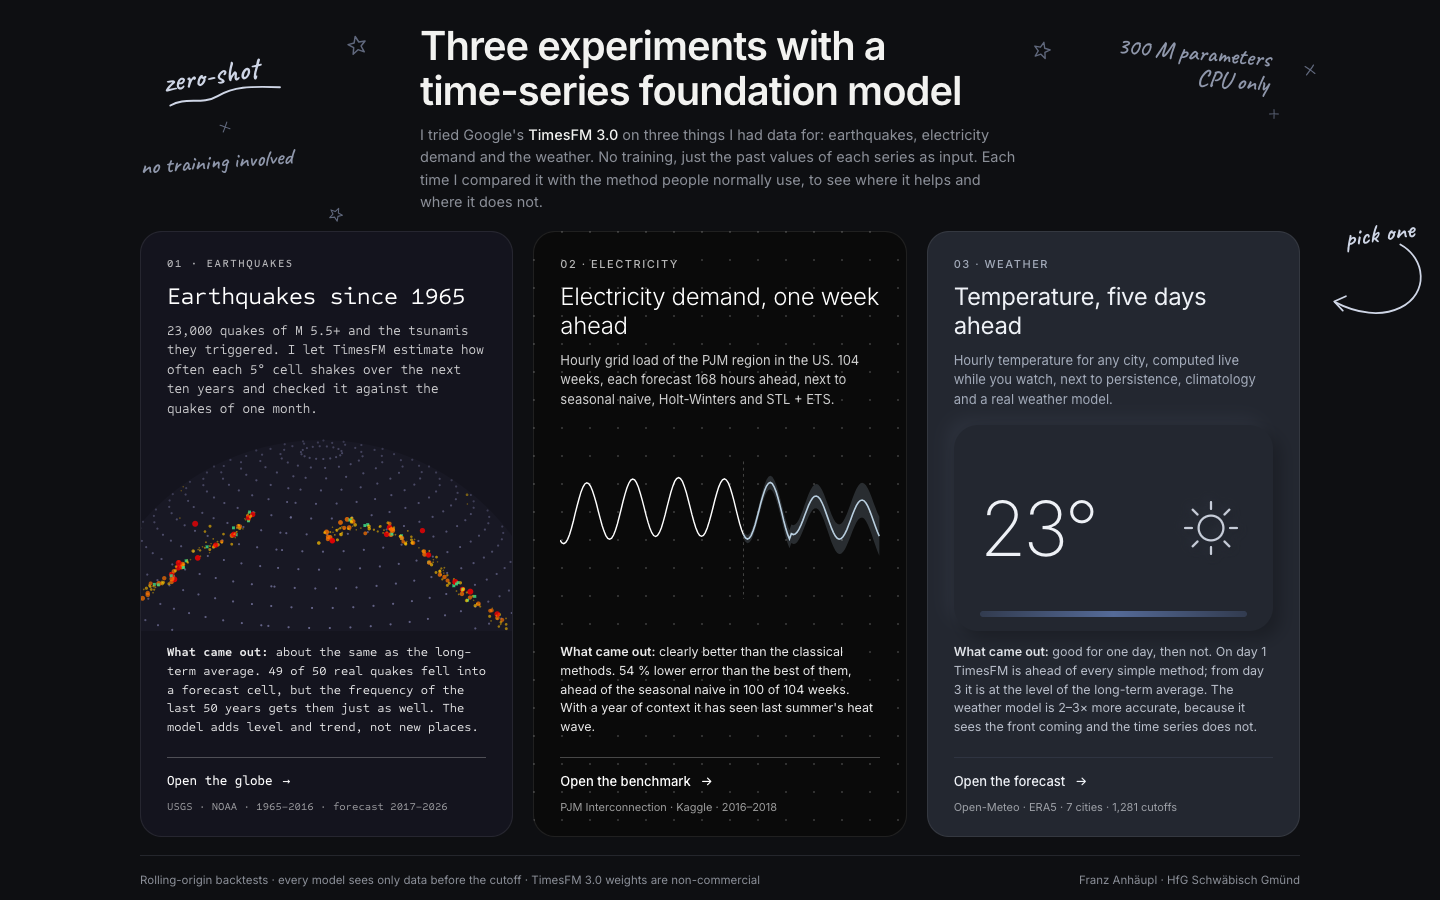
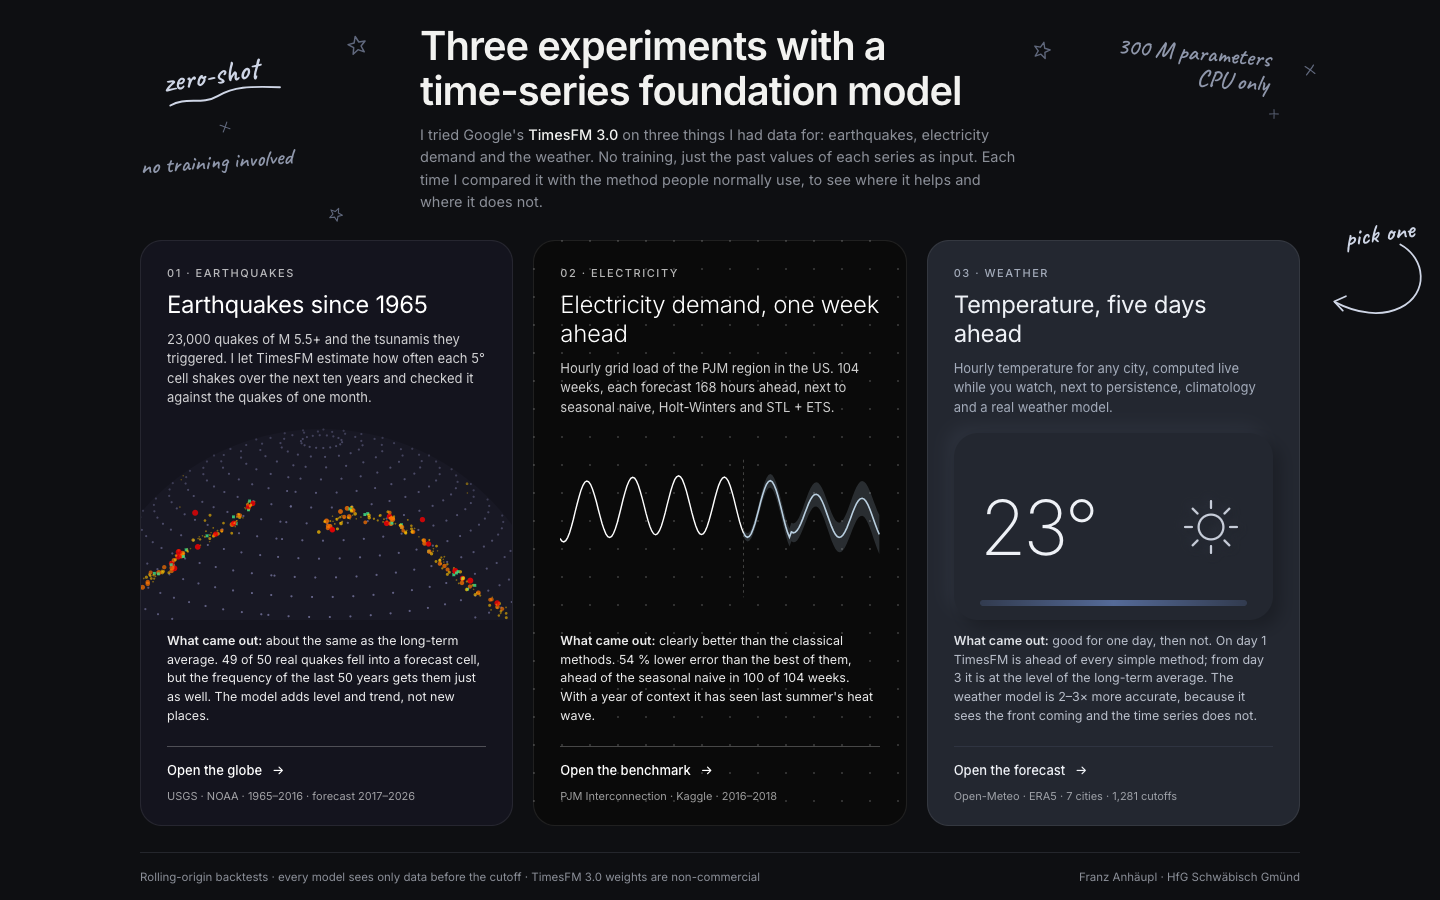
globe: layers panel on the left (predicted, history, auto-rotate, reset view, legend), predictions on the right; hub cards in one typeface

diff --git a/src/erdbeben/pages/Globe.tsx b/src/erdbeben/pages/Globe.tsx
@@ -305,9 +305,13 @@ export default function Globe() {
   const histMaterialsRef = useRef<THREE.PointsMaterial[]>([]);
   const markersRef = useRef<{ real: THREE.Mesh; pred: THREE.Mesh; arc: THREE.Line } | null>(null);
   const focusTargetRef = useRef<THREE.Vector3 | null>(null);
+  const controlsRef = useRef<OrbitControls | null>(null);
+  const cameraRef = useRef<THREE.PerspectiveCamera | null>(null);
   const [showForecast, setShowForecast] = useState(true);
   const [histOpacity, setHistOpacity] = useState(1);
   const [panelOpen, setPanelOpen] = useState(true);
+  const [leftOpen, setLeftOpen] = useState(() => window.innerWidth > 900); // collapsed on phones
+  const [autoRotate, setAutoRotate] = useState(false);
   const [openSection, setOpenSection] = useState<string>('pairs');
   const [selected, setSelected] = useState<string | null>(null);
   const [hover, setHover] = useState<{ item: HoverItem; x: number; y: number } | null>(null);
@@ -336,6 +340,9 @@ export default function Globe() {
     controls.enableZoom = true;
     controls.minDistance = RADIUS + 0.5;
     controls.maxDistance = 40;
+    controls.autoRotateSpeed = 0.6;
+    controlsRef.current = controls;
+    cameraRef.current = camera;
 
     // ---- space around the globe: a sparse, slowly drifting star field.
     const space = new THREE.Group();
@@ -559,6 +566,8 @@ export default function Globe() {
       renderer.domElement.removeEventListener('pointermove', onMove);
       renderer.domElement.removeEventListener('pointerleave', onLeave);
       controls.dispose();
+      controlsRef.current = null;
+      cameraRef.current = null;
       scene.traverse((o) => {
         if (o instanceof THREE.Points) {
           o.geometry.dispose();
@@ -633,6 +642,21 @@ export default function Globe() {
     }
   };
 
+  useEffect(() => {
+    if (controlsRef.current) controlsRef.current.autoRotate = autoRotate;
+  }, [autoRotate]);
+
+  const resetView = () => {
+    const c = controlsRef.current;
+    const cam = cameraRef.current;
+    if (!c || !cam) return;
+    focusTargetRef.current = null;
+    cam.position.set(0, 0, CAMERA_Z);
+    c.target.set(0, 0, 0);
+    c.update();
+    clearSelection();
+  };
+
   // Step through the open list with the arrow keys.
   const currentSection = insights?.sections.find((sec) => sec.key === openSection) ?? null;
   const step = (delta: number) => {
@@ -674,18 +698,17 @@ export default function Globe() {
       {!data && <Loader />}
       <div ref={mountRef} className="stage" />
 
-      {data?.forecast && insights && (panelOpen ? (
-        <aside className="globePanel">
+      {data?.forecast && insights && (leftOpen ? (
+        <aside className="globePanel left">
           <div className="panelHead">
             <div>
-              <div className="panelTitle">Predictions</div>
-              <div className="panelSub">TimesFM 3.0 · {data.forecast.meta.years[0]}–{insights.lastYear}</div>
+              <div className="panelTitle">Layers</div>
+              <div className="panelSub">what the globe shows</div>
             </div>
-            <button type="button" className="iconBtn" onClick={() => setPanelOpen(false)} aria-label="Hide panel" title="Hide panel">
+            <button type="button" className="iconBtn" onClick={() => setLeftOpen(false)} aria-label="Hide layers" title="Hide layers">
               ×
             </button>
           </div>
-
           <div className="controls">
             <label className="ctrl">
               <span className="ctrlLabel">Predicted quakes</span>
@@ -709,12 +732,45 @@ export default function Globe() {
                 <span className="ctrlValue">{Math.round(histOpacity * 100)} %</span>
               </span>
             </label>
+            <label className="ctrl">
+              <span className="ctrlLabel">Auto‑rotate</span>
+              <span className="switch small">
+                <input type="checkbox" checked={autoRotate} onChange={(e) => setAutoRotate(e.target.checked)} aria-label="Auto-rotate the globe" />
+                <span className="knob" />
+              </span>
+            </label>
+            <div className="ctrl">
+              <span className="ctrlLabel">View</span>
+              <button type="button" className="ghostBtn" onClick={resetView}>
+                reset
+              </button>
+            </div>
             <div className="legendRow">
               <span className="legendLabel">M 5.5</span>
               <span className="gradientBar" />
               <span className="legendLabel">M 8+</span>
             </div>
           </div>
+          <div className="note">Orange to red: historical quakes by magnitude. Green: sampled predictions, brighter for stronger.</div>
+        </aside>
+      ) : (
+        <button type="button" className="globePanelToggle leftToggle ghostBtn" onClick={() => setLeftOpen(true)}>
+          Layers ›
+        </button>
+      ))}
+
+      {data?.forecast && insights && (panelOpen ? (
+        <aside className="globePanel">
+          <div className="panelHead">
+            <div>
+              <div className="panelTitle">Predictions</div>
+              <div className="panelSub">TimesFM 3.0 · {data.forecast.meta.years[0]}–{insights.lastYear}</div>
+            </div>
+            <button type="button" className="iconBtn" onClick={() => setPanelOpen(false)} aria-label="Hide panel" title="Hide panel">
+              ×
+            </button>
+          </div>
+
 
           <div className="tabs" role="tablist" aria-label="Prediction lists">
             {insights.sections.map((sec) => (

diff --git a/src/erdbeben/styles/global.css b/src/erdbeben/styles/global.css
@@ -1908,3 +1908,42 @@ select {
   background: rgba(61, 220, 132, 0.25);
   color: #d9ffe9;
 }
+
+/* ==================== left panel: layers / view ==================== */
+.globePanel.left {
+  left: 12px;
+  right: auto;
+  top: 78px;
+  bottom: auto;
+  width: 272px;
+  max-height: calc(100vh - 96px);
+  overflow-y: auto;
+  animation: none;
+}
+
+.globePanelToggle.leftToggle {
+  left: 12px;
+  right: auto;
+  top: 78px;
+}
+
+.globePanel .ctrl .ghostBtn {
+  padding: 3px 10px;
+}
+
+.globePanel.left input[type='range'] {
+  width: 100px;
+}
+
+@media (max-width: 900px) {
+  .globePanel.left {
+    top: 70px;
+    width: 220px;
+    max-height: 38vh;
+  }
+
+  .globePanelToggle.leftToggle {
+    top: 70px;
+    bottom: auto;
+  }
+}

diff --git a/src/hub/hub.css b/src/hub/hub.css
@@ -180,7 +180,6 @@ body {
 /* --- 01 earthquake: near-black, monospace, warm dots --- */
 .tile.quake {
   background: rgb(20, 20, 30);
-  font-family: var(--mono);
   color: #ffffff;
   border: 1px solid rgba(255, 255, 255, 0.08);
 }
